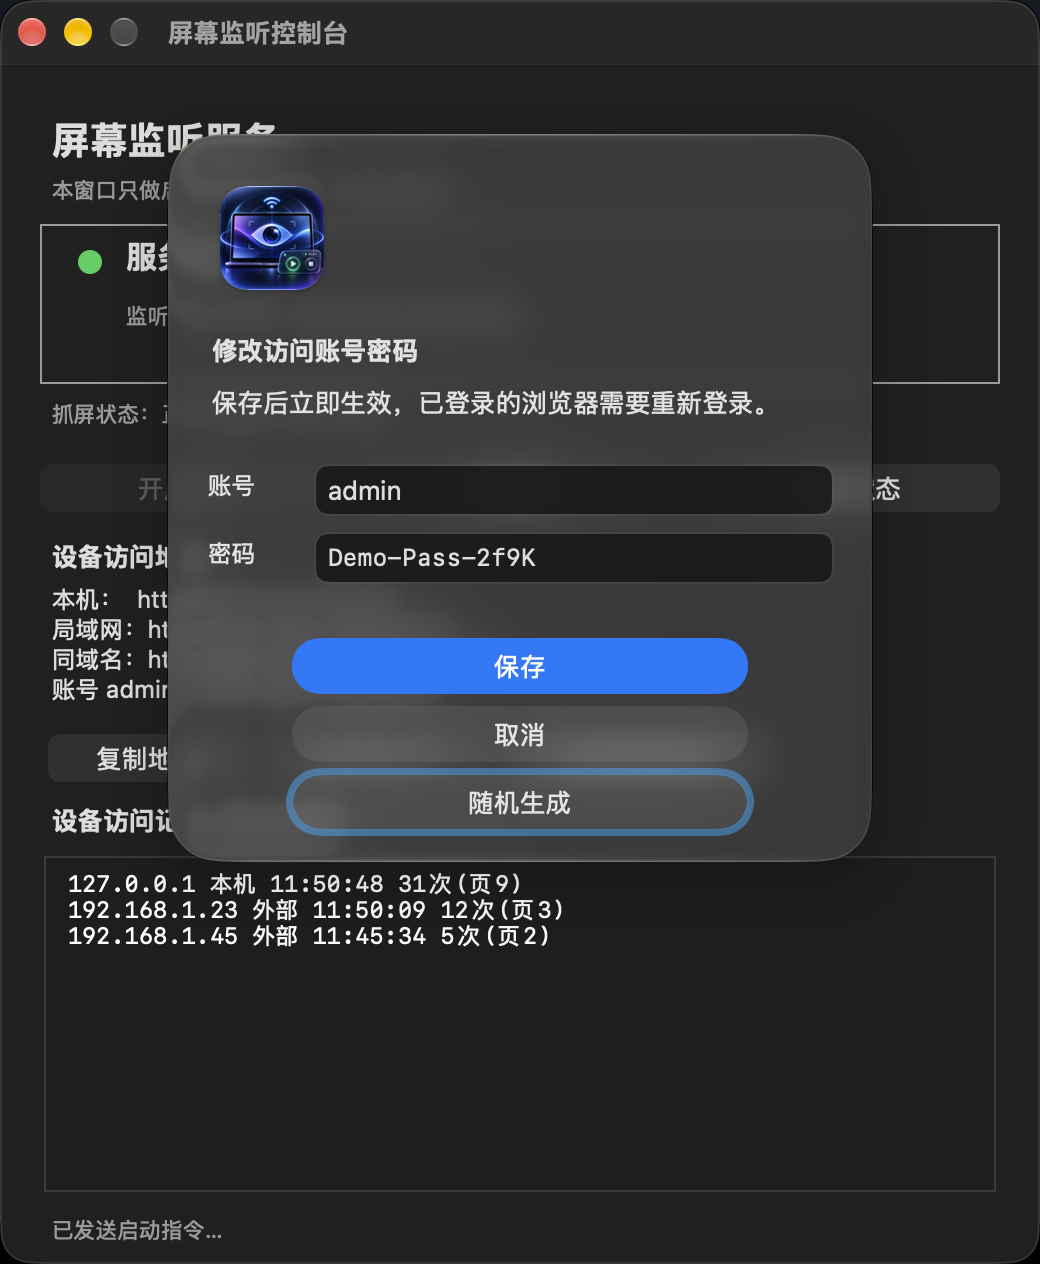
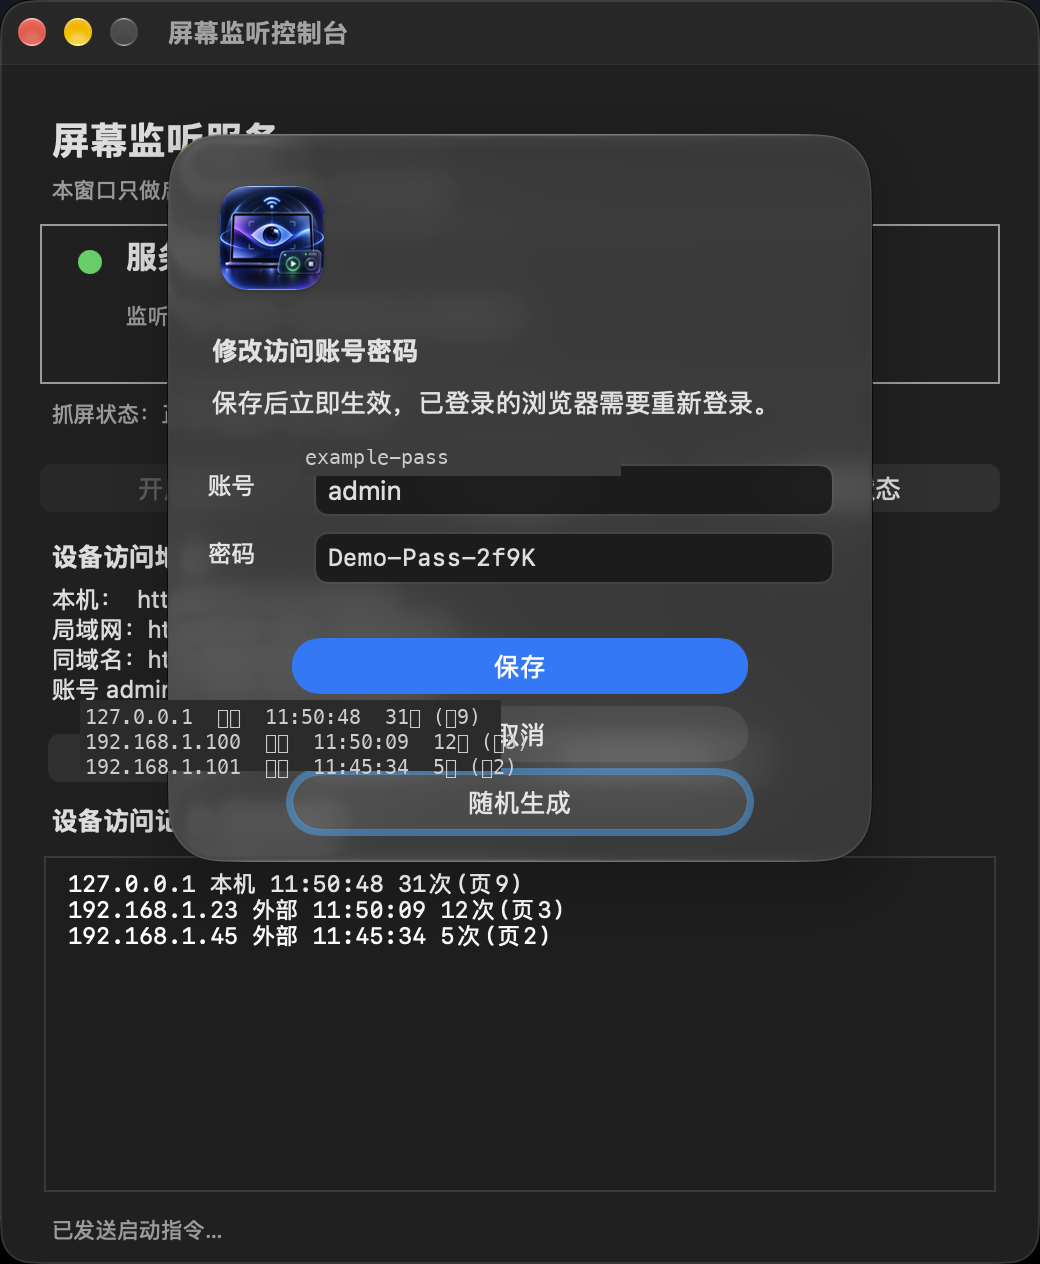
docs: 截图和README里的真实IP/主机名/密码全部替换为example示例值

Changed region(s): [[0.0923, 0.5554, 0.4923, 0.6171], [0.3077, 0.3394, 0.5846, 0.4011]]

diff --git a/README.md b/README.md
@@ -44,9 +44,9 @@ Windows 11 真机验证（原生 ARM64 虚拟机，不是 CI）：
 
 上面这张是 **v1.2.0 时期**在 VMware Fusion 里装的一台原生 **Windows 11（ARM64，系统版本 10.0.26300.9457）** 上用 `ScreenListenConsoleSetup-1.2.0.exe`（20,418,925 字节，与那份 Release 附件同一份文件）实拍的（当时「设备访问地址」还是三行合并布局；v1.3.0 起改成五行逐行复制，Windows 端新界面见上一张 CI 实拍）：安装向导（选择“仅为我安装” → 默认安装目录 → 完成并启动）全部走完，控制台正常渲染，点「开启服务」后监听 `6080`、抓屏状态显示「正常（最近一帧 0 秒前）」，访问记录里出现 `127.0.0.1` 的真实访问，防火墙提示也按正常流程弹出。
 
-> 这台虚拟机没有可用的网络适配器（Windows 11 ARM 下 e1000e 无驱动，也没装 VMware Tools），所以「局域网」一行回落到 `127.0.0.1`，「同域名」显示的是计算机名 `DESKTOP-T60DSQD`；联网正常的 Windows 机器上会显示真实局域网 IP。截图里密码是这台虚拟机内自动生成的临时随机值。
+> 这台虚拟机没有可用的网络适配器，所以「局域网」一行回落到 `127.0.0.1`，「同域名」显示的是计算机名 `DESKTOP-EXAMPLE`；联网正常的 Windows 机器上会显示真实局域网 IP。截图里密码是这台虚拟机内自动生成的临时随机值。
 
-> macOS 两张截图取自本机实拍画面：密码已临时换成演示值 `Demo-Pass-2f9K`（不是真实密码），「局域网」和「同域名」两行显示的是这台 Mac 的真实内网地址与主机名。
+> macOS 两张截图取自演示环境：密码为演示值 `example-pass`，「局域网」和「同域名」两行显示的是示例地址与主机名。
 
 ## 它长什么样
 
